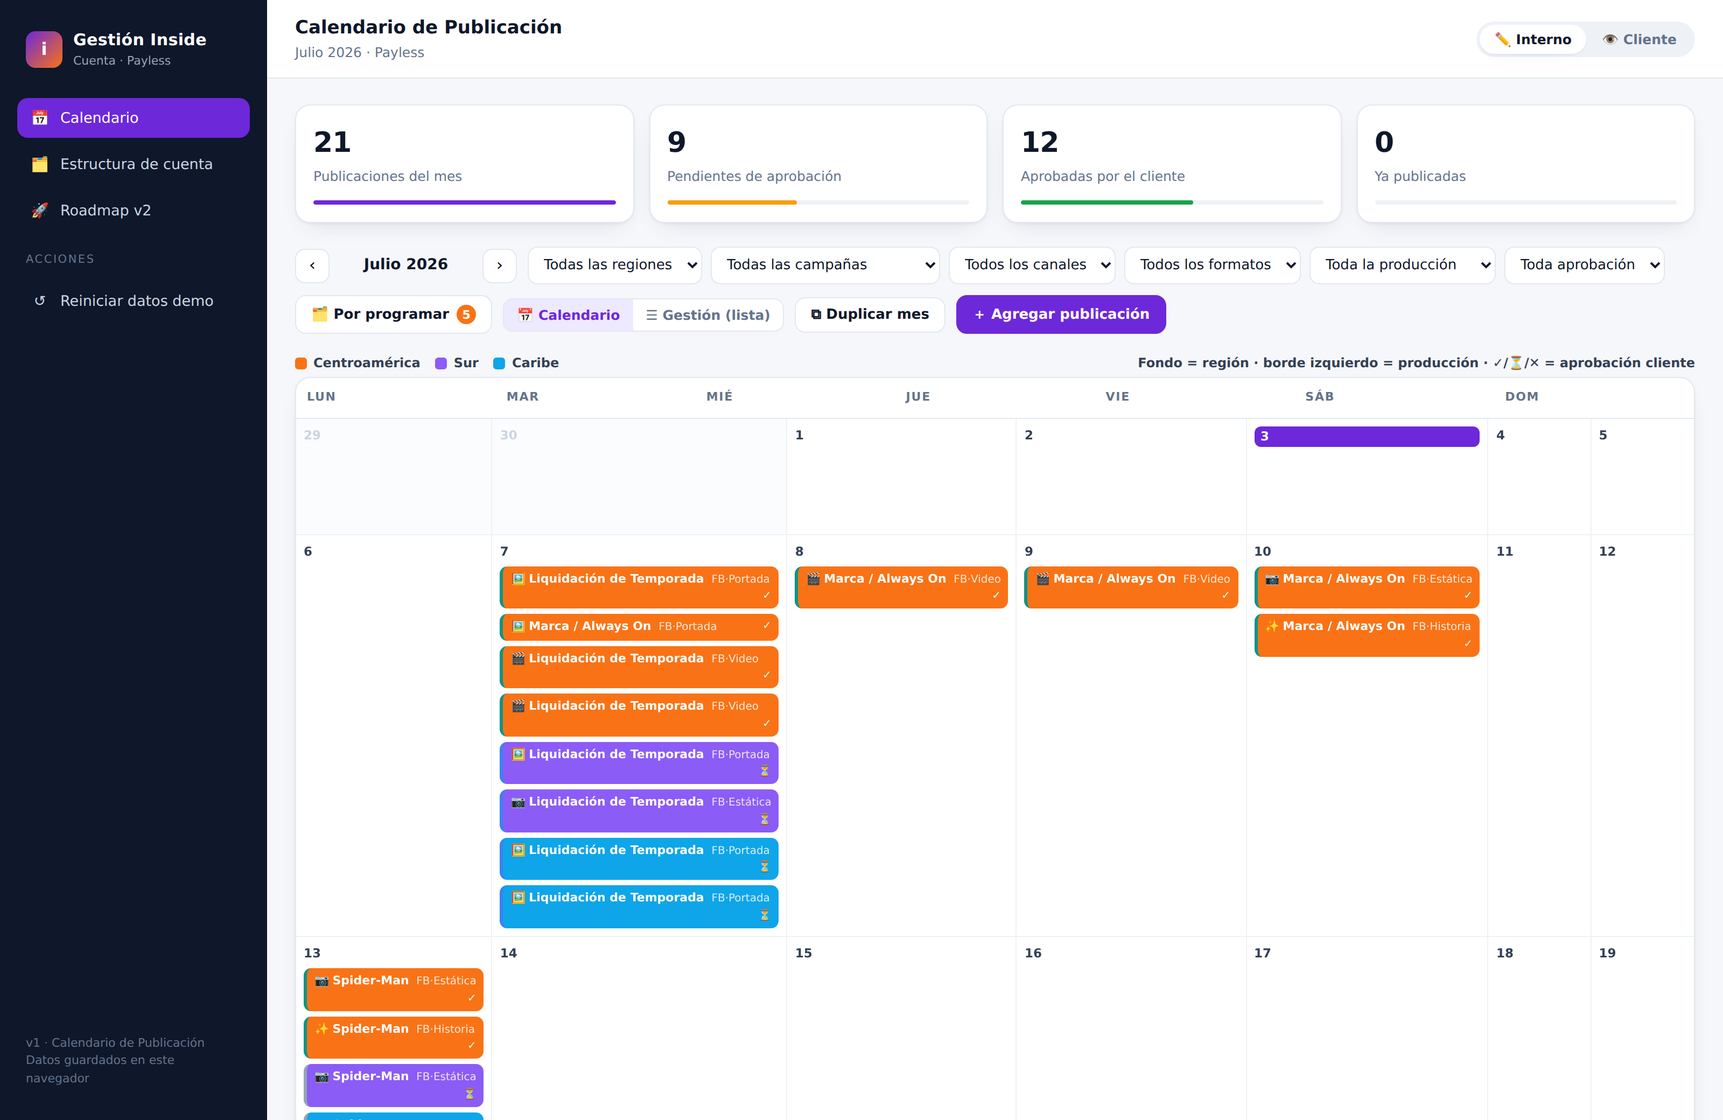
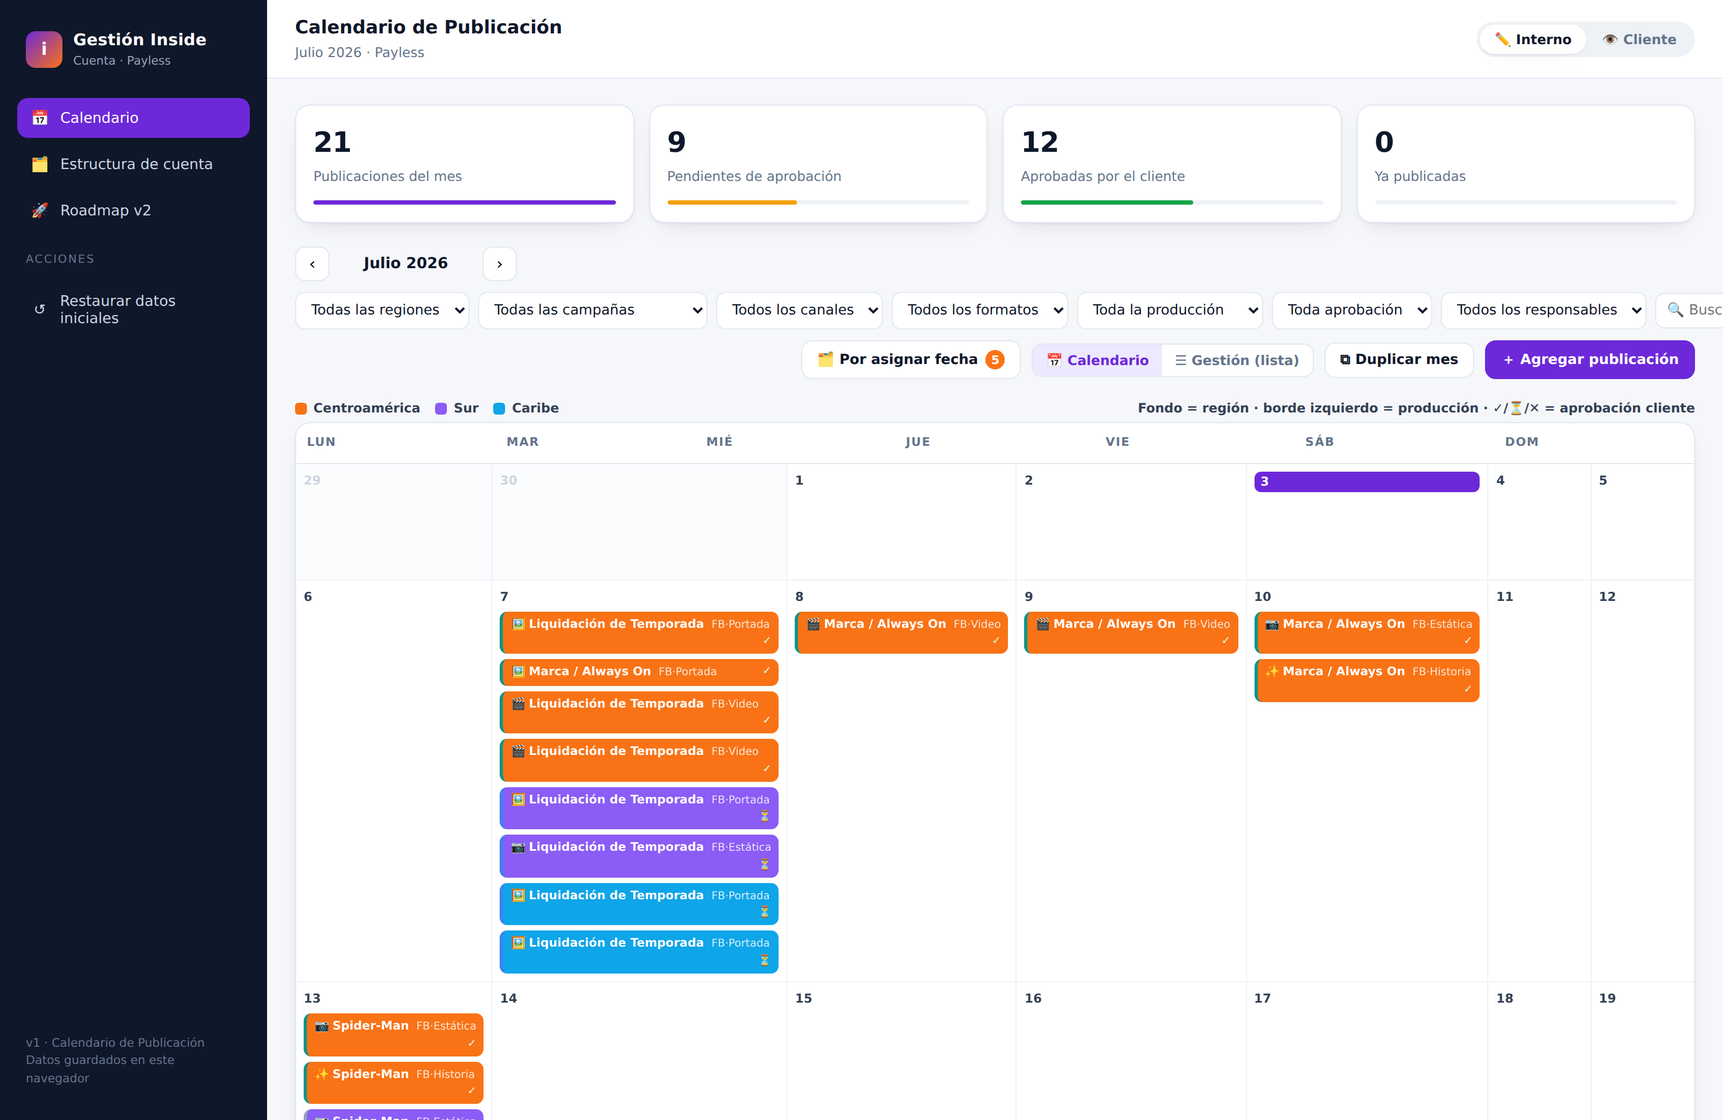
feat: revisión multi-persona (clientes, gestores Inside, UX) con ajustes aplicados
- Renombre: "Por programar" -> "Por asignar fecha" (programar = agendar en redes;
  el estado de producción "Programado" se mantiene con ese significado)
- Búsqueda de texto (campaña, notas, países, personas) conservando el foco
- Filtro por responsable Inside y botón "Limpiar" filtros
- Alerta de piezas atrasadas (fecha vencida sin publicar) en calendario y lista
- Cliente: "Con ajustes" sin comentario pide confirmación; contador de pendientes
  clickeable que filtra a "lo mío pendiente" en vista lista
- Link de la pieza clickeable dentro del modal
- Toasts de confirmación (guardar, aprobar, mover, duplicar, restaurar)
- Guard: fecha vacía al guardar equivale a "por asignar fecha"
- Contador del backlog estable (total real, no el filtrado); panel indica "N de M"
  cuando los filtros ocultan piezas
- Estructura: conteo por aprobador incluye piezas sin fecha y sus pendientes
- "Reiniciar datos demo" -> "Restaurar datos iniciales"

Claude-Session: https://claude.ai/code/session_01HuQRVwkntAf2vsht5kTvrb

diff --git a/js/app.js b/js/app.js
@@ -3,15 +3,16 @@
    Vanilla JS, sin build. Persiste en localStorage.
    ============================================================ */
 
-const KEY = "gestion_inside_v1_3";
+const KEY = "gestion_inside_v1_4";
+const HOY = "2026-07-03"; // fecha de referencia de la operación
 
 const UI = {
   view: "calendario",
   mode: "interno",            // interno | cliente
   calView: "grid",            // grid | lista
   month: SEED.meta.mesActual,
-  filtros: { region: "", campana: "", canal: "", formato: "", estado: "", aprobacion: "" },
-  showBacklog: false,         // panel "Por programar" desplegable (oculto por defecto)
+  filtros: { region: "", campana: "", canal: "", formato: "", estado: "", aprobacion: "", responsable: "", q: "" },
+  showBacklog: false,         // panel "Por asignar fecha" desplegable (oculto por defecto)
   soloMias: false,            // en modo cliente: solo lo que apruebo yo
   clienteId: "nico",          // "quién soy" cuando entro como cliente
   editId: null,
@@ -49,7 +50,16 @@ function applyFilters(list) {
     .filter((p) => !f.canal || p.canal === f.canal)
     .filter((p) => !f.formato || p.formato === f.formato)
     .filter((p) => !f.estado || p.estado === f.estado)
-    .filter((p) => !f.aprobacion || p.aprobacion === f.aprobacion);
+    .filter((p) => !f.aprobacion || p.aprobacion === f.aprobacion)
+    .filter((p) => !f.responsable || p.responsable === f.responsable);
+  if (f.q) {
+    const q = f.q.toLowerCase();
+    l = l.filter((p) => {
+      const c = campana(p.campanaId);
+      const texto = [c ? c.nombre : "", p.notas, p.formato, p.canal, nombre(p.responsable), nombre(p.aprobador), (p.paises || []).join(" ")].join(" ").toLowerCase();
+      return texto.includes(q);
+    });
+  }
   if (UI.mode === "cliente" && UI.soloMias) l = l.filter((p) => p.aprobador === UI.clienteId);
   return l;
 }
@@ -58,7 +68,7 @@ function piezasVisibles() {
   return applyFilters(DB.piezas.filter((p) => p.fecha && p.mes === UI.month))
     .sort((a, b) => a.fecha.localeCompare(b.fecha) || a.canal.localeCompare(b.canal));
 }
-// Piezas SIN fecha (backlog "por programar") — no dependen del mes
+// Piezas SIN fecha (backlog "por asignar fecha") — no dependen del mes
 function backlogPiezas() {
   return applyFilters(DB.piezas.filter((p) => !p.fecha))
     .sort((a, b) => a.campanaId.localeCompare(b.campanaId) || a.canal.localeCompare(b.canal));
@@ -112,7 +122,9 @@ function viewCalendario() {
     note = `<div class="pill-note cli-note">
       👁 <b>Modo Cliente</b> — estás como <b>${esc(nombre(UI.clienteId))}</b>.
       Puedes <b>aprobar o pedir ajustes</b> en cada publicación (no editar el contenido).
-      Tienes <b>${mias}</b> pendiente${mias === 1 ? "" : "s"} de tu aprobación.
+      ${mias > 0
+        ? `<button class="link-btn" id="verPendientes">Tienes ${mias} pendiente${mias === 1 ? "" : "s"} de tu aprobación → verlas</button>`
+        : `No tienes aprobaciones pendientes este mes ✓`}
       <select id="quienSoy" style="margin-left:8px">${clientes().map((p) => `<option value="${p.id}" ${UI.clienteId === p.id ? "selected" : ""}>${esc(p.nombre)}</option>`).join("")}</select>
     </div>`;
   }
@@ -128,10 +140,13 @@ function viewCalendario() {
       <select id="fFormato">${optS("Todos los formatos", DB.formatos, UI.filtros.formato)}</select>
       <select id="fEstado">${opt("Toda la producción", DB.estados, UI.filtros.estado)}</select>
       <select id="fAprob">${opt("Toda aprobación", DB.aprobaciones, UI.filtros.aprobacion)}</select>
+      <select id="fResp">${opt("Todos los responsables", inside(), UI.filtros.responsable)}</select>
+      <input type="search" id="fBusca" placeholder="🔍 Buscar…" value="${esc(UI.filtros.q)}" style="width:130px"/>
+      ${Object.values(UI.filtros).some((v) => v) ? `<button class="btn sm ghost" id="btnLimpiar" title="Quitar todos los filtros">✕ Limpiar</button>` : ""}
     </div>
     <div class="spacer"></div>
     ${!interno ? `<label class="chkmine"><input type="checkbox" id="soloMias" ${UI.soloMias ? "checked" : ""}/> Solo lo que apruebo yo</label>` : ""}
-    <button class="btn ${UI.showBacklog ? "active" : ""}" id="btnBacklog" title="Ver las piezas sin fecha">🗂 Por programar <span class="cnt-inline">${backlogPiezas().length}</span></button>
+    <button class="btn ${UI.showBacklog ? "active" : ""}" id="btnBacklog" title="Piezas que existen pero aún no tienen día de publicación">🗂 Por asignar fecha <span class="cnt-inline">${DB.piezas.filter((p) => !p.fecha).length}</span></button>
     <div class="viewtoggle">
       <button data-cal="grid" class="${UI.calView === "grid" ? "active" : ""}">📅 Calendario</button>
       <button data-cal="lista" class="${UI.calView === "lista" ? "active" : ""}">☰ Gestión (lista)</button>
@@ -149,15 +164,16 @@ function viewCalendario() {
   `;
 }
 
-/* ---------- Panel "Por programar" (backlog sin fecha) ---------- */
+/* ---------- Panel "Por asignar fecha" (backlog sin fecha) ---------- */
 function backlogPanel(interno) {
   const list = backlogPiezas();
+  const total = DB.piezas.filter((p) => !p.fecha).length;
   const cards = list.length
     ? list.map((p) => bchipHTML(p, interno)).join("")
-    : `<div class="backlog-empty">Sin piezas por programar 🎉</div>`;
+    : (total ? `<div class="backlog-empty">Hay ${total} pieza${total > 1 ? "s" : ""} sin fecha, pero los filtros activos las ocultan.</div>` : `<div class="backlog-empty">Sin piezas por asignar fecha 🎉</div>`);
   return `<aside class="backlog" ${interno ? 'data-drop=""' : ""}>
     <div class="backlog-head">
-      <span>🗂 Por programar <span class="cnt">${list.length}</span></span>
+      <span>🗂 Por asignar fecha <span class="cnt">${list.length < total ? `${list.length} de ${total}` : total}</span></span>
       <span>
         ${interno ? `<button class="ico-btn" id="btnNewBacklog" title="Agregar pieza sin fecha">＋</button>` : ""}
         <button class="ico-btn" id="btnCloseBacklog" title="Ocultar panel">✕</button>
@@ -178,6 +194,9 @@ function bchipHTML(p, interno) {
   </div>`;
 }
 
+// Pieza con fecha vencida y aún no publicada
+const atrasada = (p) => p.fecha && p.fecha < HOY && p.estado !== "publicado";
+
 function aprobMark(p) {
   if (p.aprobacion === "aprobado") return `<span class="amark ok" title="Aprobado por ${esc(nombre(p.aprobador))}">✓</span>`;
   if (p.aprobacion === "rechazado") return `<span class="amark no" title="Con ajustes (${esc(nombre(p.aprobador))})">✕</span>`;
@@ -190,7 +209,7 @@ function chipHTML(p) {
   const drag = UI.mode === "interno" ? `draggable="true" data-pieza="${p.id}"` : "";
   return `<span class="chip${UI.mode === "interno" ? " draggable" : ""}" data-open="${p.id}" ${drag} title="${esc(campana(p.campanaId) ? campana(p.campanaId).nombre : "")} · ${esc(p.canal)} · ${esc(p.formato)} · ${esc(r ? r.nombre : "")}"
     style="background:${r ? r.color : "#64748B"};border-left-color:${e ? e.color : "#fff"}">
-    <span class="cico">${ico}</span>${esc(campana(p.campanaId) ? campana(p.campanaId).nombre : "")}
+    <span class="cico">${ico}</span>${atrasada(p) ? '<span class="late" title="Atrasada: la fecha ya pasó y no está publicada">⚠</span>' : ""}${esc(campana(p.campanaId) ? campana(p.campanaId).nombre : "")}
     <span class="cmeta">${esc(CANAL_ICONO[p.canal] || "")}·${esc(p.formato)}</span>${aprobMark(p)}</span>`;
 }
 
@@ -202,7 +221,7 @@ function calGrid() {
   const dimPrev = new Date(Date.UTC(y, m - 1, 0)).getUTCDate();
   const byDay = {};
   piezasVisibles().forEach((p) => { (byDay[p.fecha] = byDay[p.fecha] || []).push(p); });
-  const today = "2026-07-03";
+  const today = HOY;
   const dow = ["Lun", "Mar", "Mié", "Jue", "Vie", "Sáb", "Dom"];
   let cells = "";
   const total = Math.ceil((startDow + dim) / 7) * 7;
@@ -240,7 +259,7 @@ function calLista(interno) {
       ? `<button class="ico-btn" data-open="${p.id}" title="Editar">✏</button><button class="ico-btn danger" data-del="${p.id}" title="Eliminar">🗑</button>`
       : `<button class="ico-btn" data-open="${p.id}" title="Ver / aprobar">👁</button>`;
     return `<tr class="${p.fecha ? "" : "sin-fecha"}">
-      <td class="nowrap">${p.fecha ? esc(fechaCorta(p.fecha)) : '<span class="tag-sf">Sin fecha</span>'}</td>
+      <td class="nowrap ${atrasada(p) ? "late-cell" : ""}">${p.fecha ? (atrasada(p) ? "⚠ " : "") + esc(fechaCorta(p.fecha)) : '<span class="tag-sf">Sin fecha</span>'}</td>
       <td><span class="canal-badge c-${p.canal}">${esc(CANAL_ICONO[p.canal])}</span></td>
       <td><span class="fmt-cell">${FORMATO_ICONO[p.formato] || ""} ${esc(p.formato)}</span></td>
       <td><b>${esc(campana(p.campanaId) ? campana(p.campanaId).nombre : "")}</b></td>
@@ -277,8 +296,9 @@ function viewEstructura() {
     <p>${DB.piezas.filter((p) => p.campanaId === c.id && p.mes === UI.month).length} publicaciones este mes</p></div>`).join("");
   const ins = inside().map((p) => `<div class="card"><h4>${esc(p.nombre)}</h4><p>${esc(p.rol)} · Inside</p><span class="tag">Agencia · publica</span></div>`).join("");
   const cli = clientes().map((p) => {
-    const n = DB.piezas.filter((x) => x.mes === UI.month && x.aprobador === p.id).length;
-    return `<div class="card"><h4>${esc(p.nombre)}</h4><p>${esc(p.rol)} · Payless</p><span class="tag cli">Cliente · aprueba ${n}</span></div>`;
+    const n = DB.piezas.filter((x) => x.aprobador === p.id && (x.mes === UI.month || !x.fecha)).length;
+    const pend = DB.piezas.filter((x) => x.aprobador === p.id && (x.mes === UI.month || !x.fecha) && x.aprobacion === "pendiente").length;
+    return `<div class="card"><h4>${esc(p.nombre)}</h4><p>${esc(p.rol)} · Payless</p><span class="tag cli">Cliente · aprueba ${n}${pend ? ` · ${pend} pendiente${pend > 1 ? "s" : ""}` : ""}</span></div>`;
   }).join("");
   return `
     <div class="pill-note">Base compartida del calendario. <b>Inside publica</b>, <b>el cliente aprueba</b>. En la v2 se expande al árbol de matrices (Orgánica, Ecommerce/WhatsApp, Campañas) y a los inputs con legales por país.</div>
@@ -315,7 +335,7 @@ function openModal(id, presetFecha) {
       <div><label class="fld">Formato</label><select id="mFormato" ${ro} style="width:100%">${DB.formatos.map((f) => `<option ${draft.formato === f ? "selected" : ""}>${FORMATO_ICONO[f] || ""} ${esc(f)}</option>`).join("")}</select></div>
       <div><label class="fld">Fecha de publicación</label>
         <input type="date" id="mFecha" value="${esc(draft.fecha)}" ${ro || (!draft.fecha ? "disabled" : "")} style="width:100%"/>
-        <label class="mini-chk"><input type="checkbox" id="mSinFecha" ${!draft.fecha ? "checked" : ""} ${ro}/> Por programar (sin fecha)</label>
+        <label class="mini-chk"><input type="checkbox" id="mSinFecha" ${!draft.fecha ? "checked" : ""} ${ro}/> Por asignar fecha (todavía sin día)</label>
       </div>
     </div>
     <div class="row2">
@@ -327,7 +347,7 @@ function openModal(id, presetFecha) {
       <div><label class="fld">Aprobación cliente · nombre</label><select id="mAprobador" ${ro} style="width:100%">${clientes().map((pe) => `<option value="${pe.id}" ${draft.aprobador === pe.id ? "selected" : ""}>${esc(pe.nombre)}</option>`).join("")}</select></div>
     </div>
     <div><label class="fld">Países objetivo</label><div class="paises-grid" id="mPaises">${paisesChecks(draft)}</div></div>
-    <div><label class="fld">Link de la pieza / editable (Drive, Frame…)</label><input type="url" id="mLink" value="${esc(draft.link)}" placeholder="https://..." ${ro} style="width:100%"/></div>
+    <div><label class="fld">Link de la pieza / editable (Drive, Frame…) ${draft.link ? `<a class="lk" href="${esc(draft.link)}" target="_blank" rel="noopener" style="float:right">Abrir pieza ↗</a>` : ""}</label><input type="url" id="mLink" value="${esc(draft.link)}" placeholder="https://..." ${ro} style="width:100%"/></div>
     <div><label class="fld">Notas / legal / adaptación</label><textarea id="mNotas" rows="3" ${ro} style="width:100%">${esc(draft.notas)}</textarea></div>
 
     <div class="approval-box">
@@ -376,6 +396,16 @@ function nuevaPieza(fecha) {
 }
 function closeModal() { document.getElementById("overlay").classList.remove("open"); UI.editId = null; }
 
+/* Toast de confirmación */
+function toast(msg) {
+  const t = document.createElement("div");
+  t.className = "toast";
+  t.textContent = msg;
+  document.body.appendChild(t);
+  requestAnimationFrame(() => t.classList.add("show"));
+  setTimeout(() => { t.classList.remove("show"); setTimeout(() => t.remove(), 300); }, 2200);
+}
+
 /* ============================================================
    WIRING
    ============================================================ */
@@ -412,8 +442,10 @@ function wireModal(draft, interno, existe) {
       // el <option> muestra "🎬 Video"; normalizamos al nombre de formato limpio
       draft.formato = normalizaFormato(document.getElementById("mFormato").value);
       draft.regionId = document.getElementById("mRegion").value;
-      if (document.getElementById("mSinFecha").checked) { draft.fecha = ""; draft.mes = ""; }
-      else { draft.fecha = document.getElementById("mFecha").value; draft.mes = draft.fecha.slice(0, 7); }
+      // Si el checkbox está marcado O la fecha quedó vacía, va a "por asignar fecha"
+      const fechaVal = document.getElementById("mFecha").value;
+      if (document.getElementById("mSinFecha").checked || !fechaVal) { draft.fecha = ""; draft.mes = ""; }
+      else { draft.fecha = fechaVal; draft.mes = fechaVal.slice(0, 7); }
       draft.estado = document.getElementById("mEstado").value;
       draft.responsable = document.getElementById("mResp").value;
       draft.aprobador = document.getElementById("mAprobador").value;
@@ -430,6 +462,11 @@ function wireModal(draft, interno, existe) {
     // Cliente: solo aprobación + comentario
     document.getElementById("mSave").onclick = () => {
       draft.comentarioCliente = document.getElementById("mComentario").value.trim();
+      // Si pide ajustes sin decir cuáles, la agencia no sabrá qué corregir
+      if (draft.aprobacion === "rechazado" && !draft.comentarioCliente) {
+        document.getElementById("mComentario").focus();
+        if (!confirm("Elegiste 'Con ajustes' pero no escribiste qué hay que cambiar.\n¿Guardar igual sin comentario?")) return;
+      }
       commit(draft, existe);
     };
   }
@@ -450,6 +487,7 @@ function commit(draft, existe) {
     DB.piezas.push(draft);
   }
   save(); closeModal(); render();
+  toast(UI.mode === "cliente" ? "Aprobación guardada ✓" : (existe ? "Cambios guardados ✓" : "Publicación creada ✓"));
 }
 
 function wireContent() {
@@ -473,6 +511,18 @@ function wireContent() {
   const chg = (id, key) => { const el = document.getElementById(id); if (el) el.onchange = () => { UI.filtros[key] = el.value; render(); }; };
   chg("fRegion", "region"); chg("fCampana", "campana"); chg("fCanal", "canal");
   chg("fFormato", "formato"); chg("fEstado", "estado"); chg("fAprob", "aprobacion");
+  chg("fResp", "responsable");
+
+  // Búsqueda con re-render conservando el foco y el cursor
+  const busca = document.getElementById("fBusca");
+  if (busca) busca.oninput = () => {
+    UI.filtros.q = busca.value;
+    render();
+    const nb = document.getElementById("fBusca");
+    if (nb) { nb.focus(); nb.setSelectionRange(nb.value.length, nb.value.length); }
+  };
+  bind("btnLimpiar", () => { Object.keys(UI.filtros).forEach((k) => (UI.filtros[k] = "")); UI.soloMias = false; render(); });
+  bind("verPendientes", () => { UI.soloMias = true; UI.filtros.aprobacion = "pendiente"; UI.calView = "lista"; render(); });
 
   if (UI.mode === "interno" && UI.calView === "grid") wireDragDrop();
 }
@@ -510,6 +560,7 @@ function wireDragDrop() {
       p.mes = nuevaFecha ? nuevaFecha.slice(0, 7) : "";
       save();
       render();
+      toast(nuevaFecha ? `Movida al ${fechaCorta(nuevaFecha)} ✓` : "Enviada a 'Por asignar fecha' ✓");
     });
   });
 }
@@ -528,6 +579,7 @@ function duplicarMes() {
     DB.piezas.push(n);
   });
   save(); UI.month = dest; render();
+  toast(`${src.length} publicaciones copiadas a ${monthLabel(dest)} ✓`);
 }
 
 /* ---------- Nav global ---------- */
@@ -535,6 +587,6 @@ document.querySelectorAll(".nav-item[data-view]").forEach((b) => b.onclick = () 
 document.querySelectorAll("#modePill button").forEach((b) => b.onclick = () => { UI.mode = b.dataset.mode; UI.soloMias = false; render(); });
 document.getElementById("modalClose").onclick = closeModal;
 document.getElementById("overlay").onclick = (e) => { if (e.target.id === "overlay") closeModal(); };
-document.getElementById("btnReset").onclick = () => { if (confirm("¿Reiniciar a los datos del kick off? Se perderán tus cambios en este navegador.")) { DB = JSON.parse(JSON.stringify(SEED)); save(); UI.month = SEED.meta.mesActual; render(); } };
+document.getElementById("btnReset").onclick = () => { if (confirm("¿Restaurar los datos iniciales (kick off + matriz de Centroamérica)? Se perderán tus cambios en este navegador.")) { DB = JSON.parse(JSON.stringify(SEED)); save(); UI.month = SEED.meta.mesActual; render(); toast("Datos restaurados ✓"); } };
 
 render();

diff --git a/js/data.js b/js/data.js
@@ -122,7 +122,7 @@ const SEED = {
     pz("2026-07-21", "liq", "cam", "Facebook", "Estática", "briefing", "ale", "nico", "pendiente", "all",
       "Liquidación 'últimos días', hasta 70%. Refuerzo desde el 21 jul. Propuesta de Inside sobre la gráfica base."),
 
-    /* ===== POR PROGRAMAR (sin fecha) ===== */
+    /* ===== POR ASIGNAR FECHA (sin día definido) ===== */
     pz("", "liq", "cam", "Facebook", "Video", "programado", "alej", "nico", "aprobado", ["El Salvador"],
       "[Value for Money] 'Season Sale – un par nunca es suficiente'. FECHA TBC (por confirmar). El Salvador.", "tbc"),
     pz("", "madres", "cam", "Facebook", "Carrusel", "briefing", "ale", "nico", "pendiente", ["Costa Rica"],
@@ -130,13 +130,13 @@ const SEED = {
     pz("", "padre", "cam", "Facebook", "Video", "briefing", "alej", "nico", "pendiente", "all",
       "Día del Padre: reuso de contenido de junio (zapatos de caballero). Confirmar con Kevin y fecha (aprox. 15 jul).", "bpad"),
     pz("", "liq", "sur", "Facebook", "Estática", "briefing", "vic", "cristina", "pendiente", "all",
-      "Refuerzo de liquidación para Sur (Ecuador, Colombia, Panamá). Por programar.", "bsur"),
+      "Refuerzo de liquidación para Sur (Ecuador, Colombia, Panamá). Por asignar fecha.", "bsur"),
     pz("", "liq", "cam", "WhatsApp", "Estática", "briefing", "vic", "carla", "pendiente", "all",
       "Ecommerce y WhatsApp en standby: Carla Poveda organiza lo pendiente antes de programar la Pauta.", "bwa"),
   ],
 };
 
-/* Helper para construir una publicación (fecha "" = sin fecha / por programar) */
+/* Helper para construir una publicación (fecha "" = sin fecha / por asignar) */
 function pz(fecha, campanaId, regionId, canal, formato, estado, responsable, aprobador, aprobacion, paises, notas, salt) {
   const reg = REG(regionId);
   const target = paises === "all" ? (reg ? reg.paises.slice() : []) : paises;

diff --git a/css/styles.css b/css/styles.css
@@ -285,6 +285,22 @@ tr.sin-fecha td { background: #FFFDF5; }
 
 @media (max-width: 1100px) { .cal-layout { grid-template-columns: 1fr; } .backlog { position: static; max-height: none; } }
 
+/* ---- v1.4 revisión multi-persona ---- */
+.toast {
+  position: fixed; bottom: 24px; left: 50%; transform: translateX(-50%) translateY(16px);
+  background: var(--ink); color: #fff; padding: 10px 20px; border-radius: 10px;
+  font-size: 13px; font-weight: 600; box-shadow: 0 10px 30px -8px rgba(15,23,42,.45);
+  opacity: 0; transition: opacity .25s ease, transform .25s ease; z-index: 100; pointer-events: none;
+}
+.toast.show { opacity: 1; transform: translateX(-50%) translateY(0); }
+@media (prefers-reduced-motion: reduce) { .toast { transition: opacity .25s ease; transform: translateX(-50%); } }
+
+.link-btn { border: none; background: transparent; color: inherit; font: inherit; font-weight: 700; text-decoration: underline; padding: 0; cursor: pointer; }
+.chip .late { margin-right: 3px; font-size: 10px; }
+.late-cell { color: var(--danger); font-weight: 700; }
+input[type="search"] { border: 1px solid var(--line); border-radius: 9px; padding: 8px 10px; font-family: inherit; font-size: 13px; color: var(--ink); background: #fff; outline: none; }
+input[type="search"]:focus { border-color: var(--brand); box-shadow: 0 0 0 3px var(--brand-soft); }
+
 .hidden { display: none !important; }
 .pill-note { background: #FFF7ED; border: 1px solid #FED7AA; color: #9A3412; padding: 10px 14px; border-radius: 10px; font-size: 12.5px; margin-bottom: 18px; }
 .cli-note { background: var(--brand-soft); border-color: #DDD6FE; color: #5B21B6; }

diff --git a/index.html b/index.html
@@ -25,7 +25,7 @@
       <button class="nav-item" data-view="roadmap"><span class="ico">🚀</span> Roadmap v2</button>
 
       <div class="nav-sep">Acciones</div>
-      <button class="nav-item" id="btnReset"><span class="ico">↺</span> Reiniciar datos demo</button>
+      <button class="nav-item" id="btnReset"><span class="ico">↺</span> Restaurar datos iniciales</button>
 
       <div class="sidebar-foot">
         v1 · Calendario de Publicación<br />Datos guardados en este navegador
